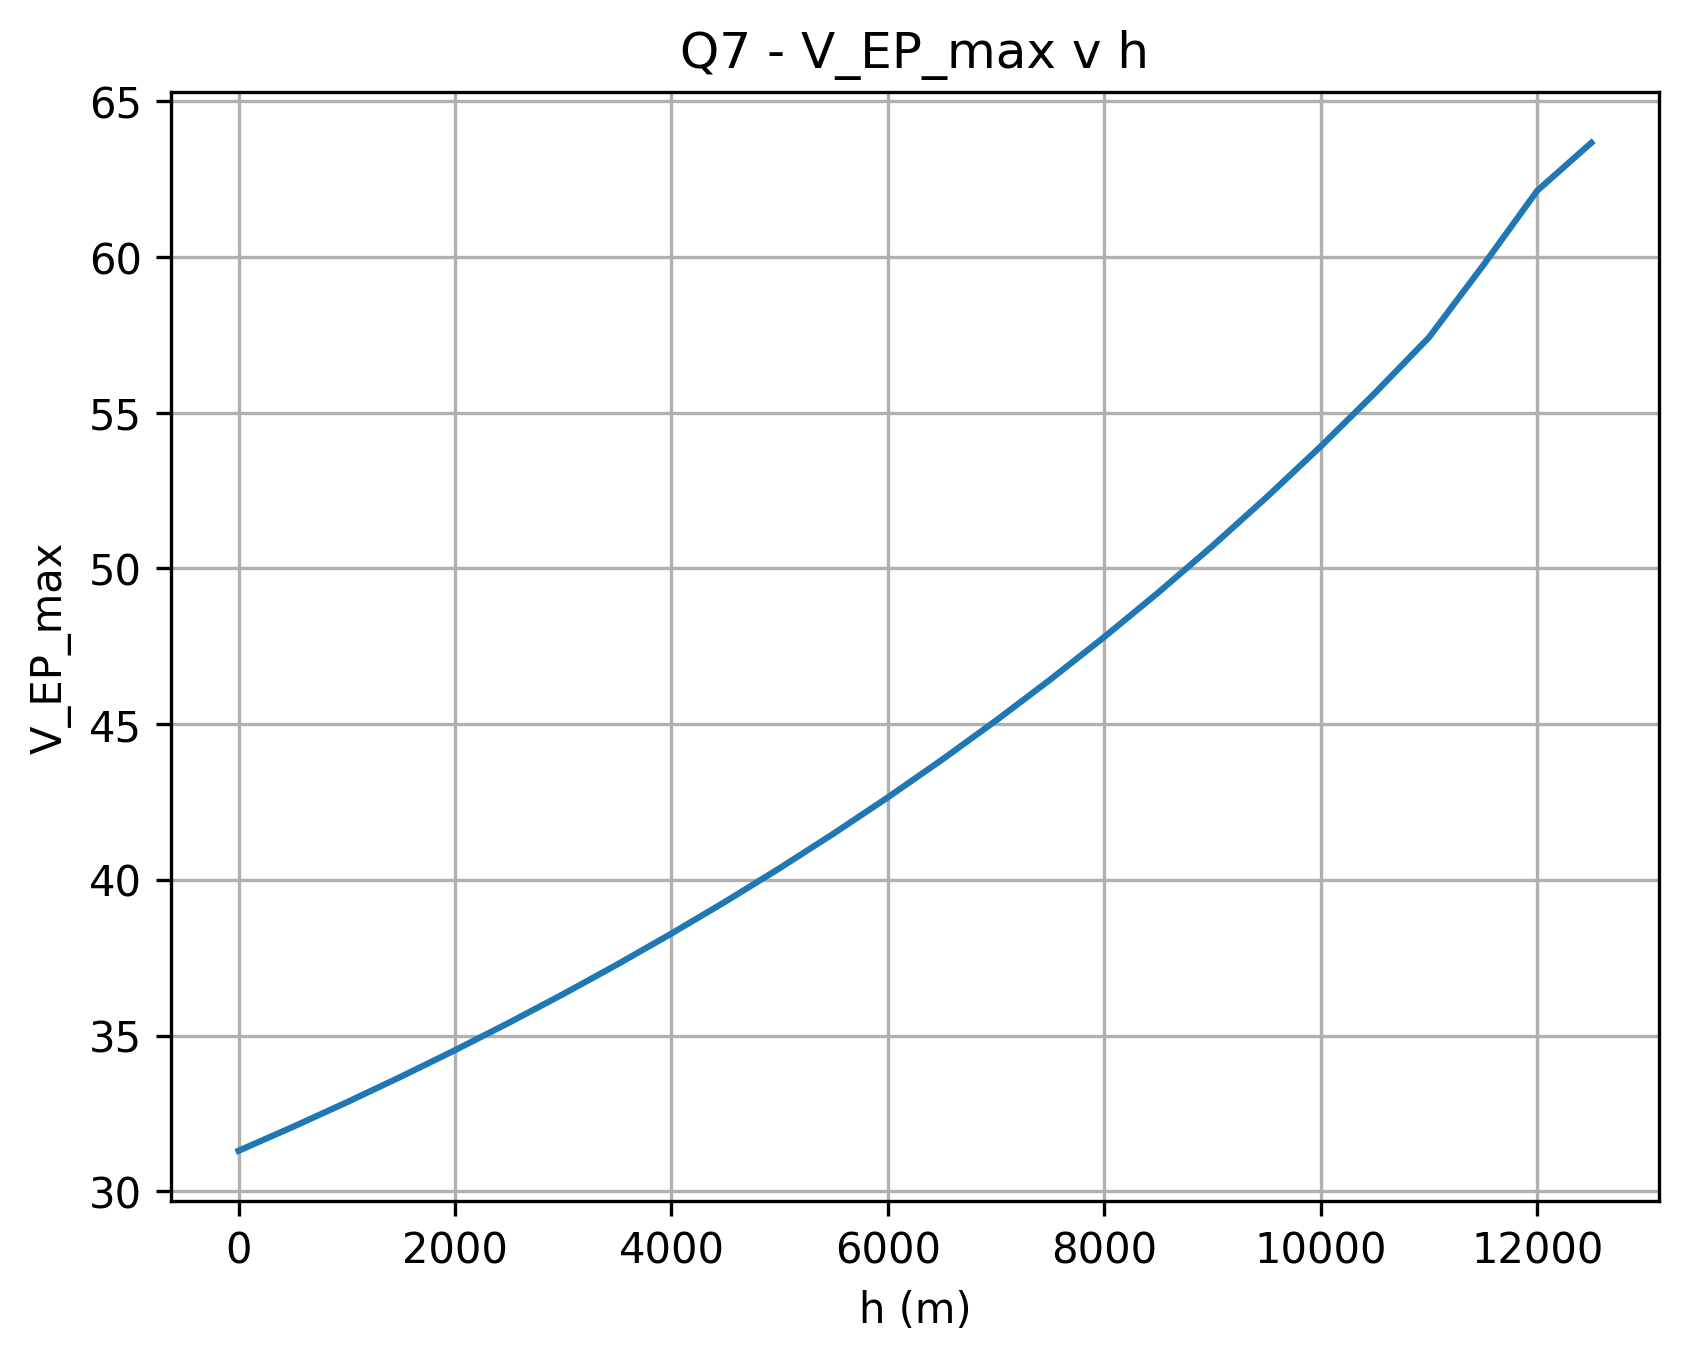
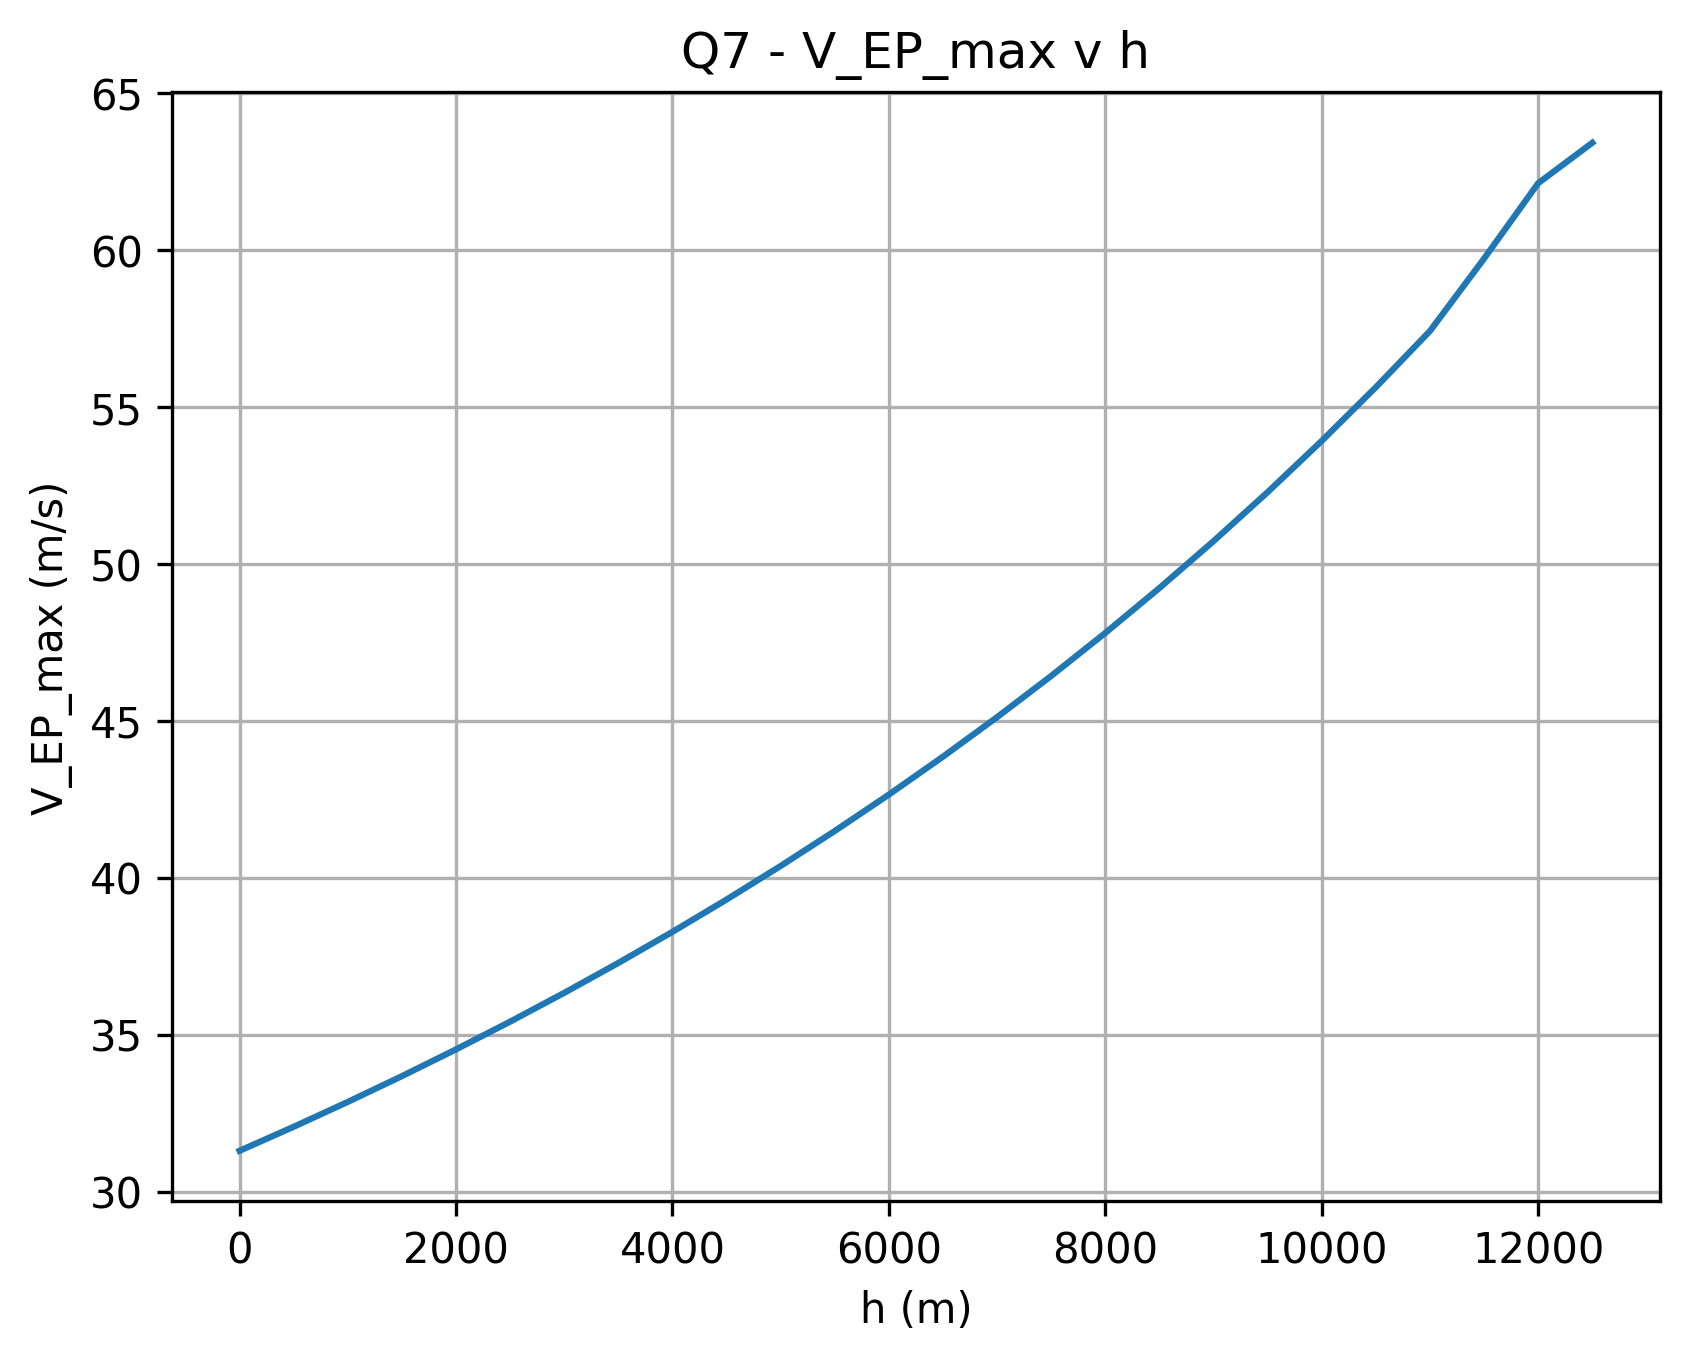
main2
units, visuals

diff --git a/ae172_2.py b/ae172_2.py
@@ -10,7 +10,14 @@ K0 = -0.03
 K = 0.06
 CL_max = 1.6
 rho0 = 1.225
-rhoT = [1.225,1.16727,1.11164,1.05807,1.00649,0.956859,0.909122,0.863229,0.819129,0.776775,0.736116,0.697106,0.659697,0.623844,0.589501,0.556624,0.525168,0.495090,0.466348,0.438901,0.412707,0.387725,0.363918,0.336327,0.310828,0.287262,0.265483,0.245355,0.226753,0.209562,0.193674]
+rhoT = [1.225,1.16727,1.11164,1.05807,1.00649,
+        0.956859,0.909122,0.863229,0.819129,
+        0.776775,0.736116,0.697106,0.659697,
+        0.623844,0.589501,0.556624,0.525168,
+        0.495090,0.466348,0.438901,0.412707,
+        0.387725,0.363918,0.336327,0.310828,
+        0.287262,0.265483,0.245355,0.226753,
+        0.209562,0.193674]
 
 def CLminforPR():
     cl = ((-math.sqrt((K0**2)+12*K*CD0))-K0) / ((-2)*K)
@@ -57,8 +64,7 @@ def VforminPR(r):
     return vm
 
 def RhoAbsCeiling():
-    rh = ((math.sqrt((2*(w**3))/s)*4*CD0*rho0)/((CL_max**(3/2))*PA_max_sea))**(2/3)
-    #rh = ((CD0/(CL_max**2)+K0/CL_max+1)*(2*(w**2)*rho0)*math.sqrt((s*CL_max)/(2*w))/(s*PA_max_sea))**(2/3)
+    rh = ((math.sqrt((2*(w**3))/s)*(CD0+K0*CLminforPR()+K*(CLminforPR()**2))*rho0)/((CLminforPR()**(3/2))*PA_max_sea))**(2/3)
     return rh
 
 
@@ -93,7 +99,7 @@ def fifthQ():
     plt.plot(h,rc)
     plt.title("Q5 - RC v h")
     plt.xlabel("h (m)")
-    plt.ylabel("Rate of Climb")
+    plt.ylabel("Rate of Climb (m/s)")
     plt.grid()
     plt.savefig("Q5_RC_v_h.png", dpi = 300, bbox_inches = "tight")
     plt.show()
@@ -146,7 +152,7 @@ def seventhQ():
     plt.plot(h,rc)
     plt.title("Q7 - V_EP_max v h")
     plt.xlabel("h (m)")
-    plt.ylabel("V_EP_max")
+    plt.ylabel("V_EP_max (m/s)")
     plt.grid()
     plt.savefig("Q7V_EP_max_v_h.png", dpi = 300, bbox_inches = "tight")
     plt.show()
